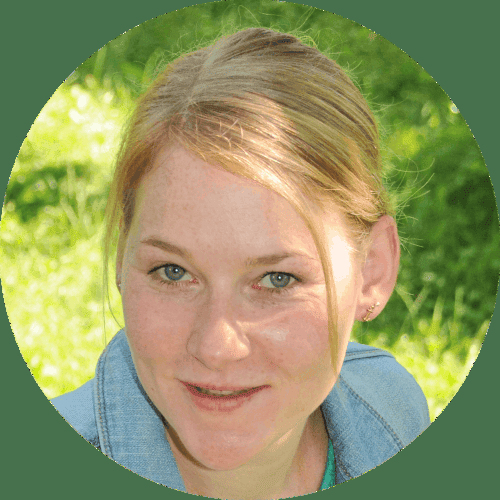
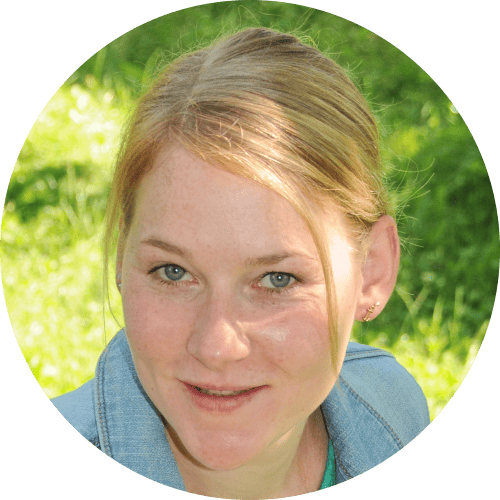
Fix image file resolution, add correct background images, fix navigation bar

diff --git a/assets/css/style.css b/assets/css/style.css
@@ -7,13 +7,76 @@
 }
 
 body {
-    font-family: Lusitana, sans-serif;
+    font-family: 'Lusitana', sans-serif;
+    background-color: black;
+    color: white;
+}
+
+section {
+    height: 850px;
+}
+
+#header {
+    height: 75px;
+    background: url('../images/header_no_cables_no_clouds.png') no-repeat center center;
 }
 
 h1 {
-    font-family: Meow Script, serif;
+    font-family: 'Meow Script', serif;
+    font-weight: 400;
+    font-size: 300%;
+    letter-spacing: 2.5px;
+    color: white;
+    float: left;
+    line-height: 75px;
+    margin-left: 20px;
+
+}
+
+#menu {
+    font-size: 100%;
+    letter-spacing: 2.5px;
+    float: right;
+    line-height: 75px;
+    font-size: 200%;
+    margin-right: 20px;
+}
+
+#menu a {
+    text-decoration: none;
+    color: inherit
+}
+
+.active {
+    border-bottom: 2px solid white;
+}
+
+#menu a:hover {
+    border-bottom: 2px solid white;
+}
+
+#menu li {
+    list-style-type: none;
+    display: inline;
+    margin-right: 20px;
 }
 
 #hero {
-    background: url('../images/hero.png') no-repeat;
+    background: url('../images/hero_with_fixed_clouds.png') no-repeat center center;
+}
+
+#safe-haven {
+    background: url('../images/safe_haven.png') no-repeat center center;
+}
+
+#place-to-play {
+    background: url('../images/a_place_to_play.png') no-repeat center center;
+}
+
+#playground {
+    background: url('../images/playground.png') no-repeat center center;
+}
+
+#out-and-about {
+    background: url('../images/out_and_about.png') no-repeat center center;
 }

diff --git a/index.html b/index.html
@@ -11,16 +11,17 @@
 </head>
 <body>
     <header>
-        <h1>Kita Rappelkiste e.V.</h1>
-        <nav>
-            <ul>
-                <li><a href="index.html">Home</a></li>
-                <li><a href="stories.html">Stories</a></li>
-                <li><a href="contact.html">Get in touch</a></li>
-            </ul>
-        </nav>
+        <div id="header">
+            <h1>Kita Rappelkiste e.V.</h1>
+            <nav>
+                <ul id="menu">
+                    <li><a href="index.html" class="active">Home</a></li>
+                    <li><a href="stories.html">Stories</a></li>
+                    <li><a href="contact.html">Get in touch</a></li>
+                </ul>
+            </nav>
+        </div>
     </header>
-    <img href="assets/images/hero.png">
     <section id="hero">
         <h2>
             Your child is unique - so are we.

diff --git a/contact.html b/contact.html
@@ -11,14 +11,16 @@
 </head>
 <body>
     <header>
-        <h1>Kita Rappelkiste e.V.</h1>
-        <nav>
-            <ul>
-                <li><a href="index.html">Home</a></li>
-                <li><a href="stories.html">Stories</a></li>
-                <li><a href="contact.html">Get in touch</a></li>
-            </ul>
-        </nav>
+        <div id="header">
+            <h1>Kita Rappelkiste e.V.</h1>
+            <nav>
+                <ul id="menu">
+                    <li><a href="index.html">Home</a></li>
+                    <li><a href="stories.html">Stories</a></li>
+                    <li><a href="contact.html" class="active">Get in touch</a></li>
+                </ul>
+            </nav>
+        </div>
     </header>
 </body>
 </html>

diff --git a/stories.html b/stories.html
@@ -11,14 +11,16 @@
 </head>
 <body>
     <header>
-        <h1>Kita Rappelkiste e.V.</h1>
-        <nav>
-            <ul>
-                <li><a href="index.html">Home</a></li>
-                <li><a href="stories.html">Stories</a></li>
-                <li><a href="contact.html">Get in touch</a></li>
-            </ul>
-        </nav>
+        <div id="header">
+            <h1>Kita Rappelkiste e.V.</h1>
+            <nav>
+                <ul id="menu">
+                    <li><a href="index.html">Home</a></li>
+                    <li><a href="stories.html" class="active">Stories</a></li>
+                    <li><a href="contact.html">Get in touch</a></li>
+                </ul>
+            </nav>
+        </div>
     </header>
 </body>
 </html>
